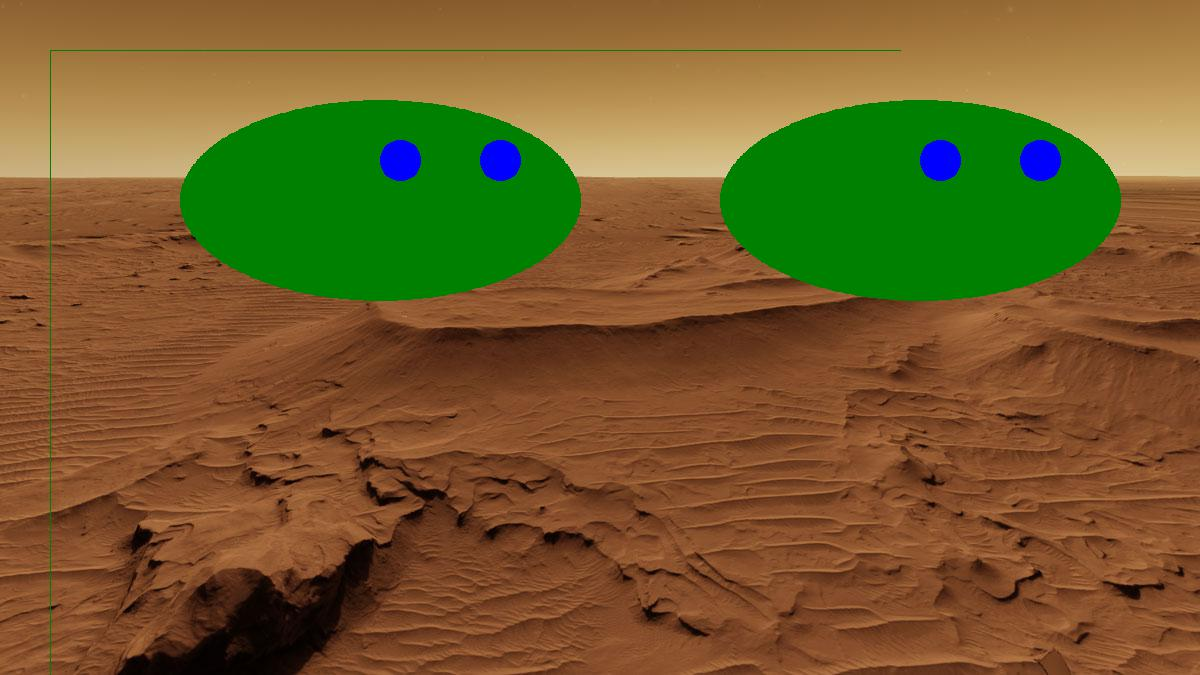
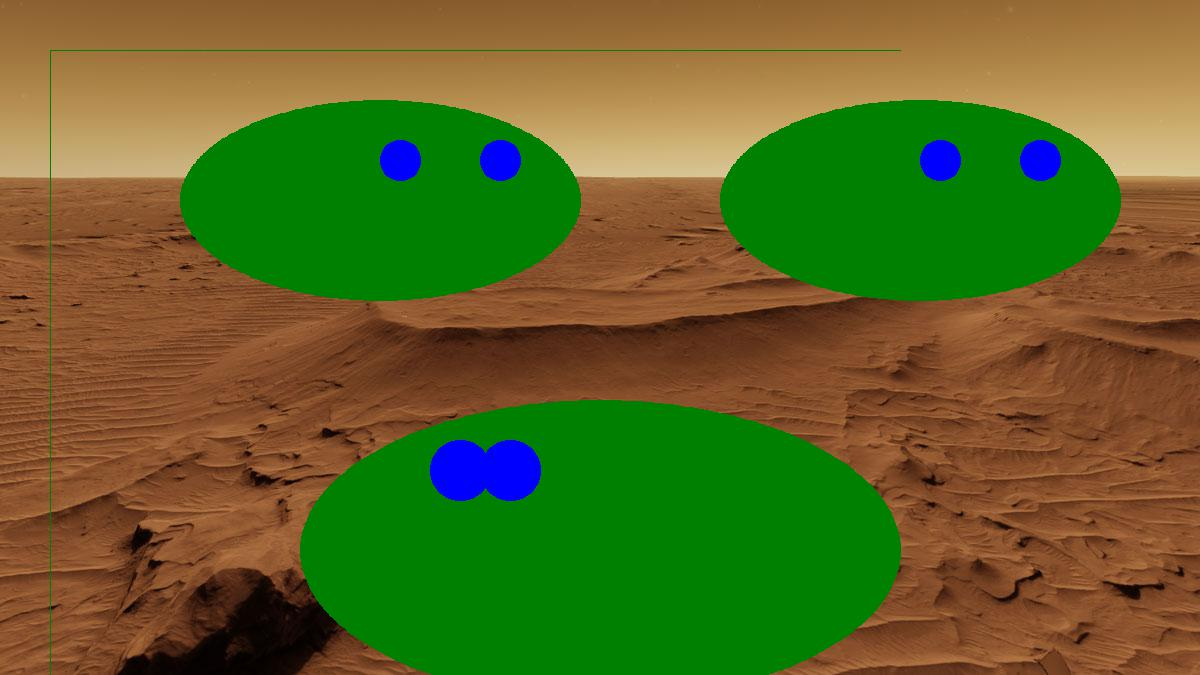
Added super alien and new function

Changed region(s): [[0.2467, 0.5911, 0.7708, 1.0]]

diff --git a/animationprogramfun1.py b/animationprogramfun1.py
@@ -25,6 +25,25 @@ def windowprep(iwidth,iheight):
     
     return window
 
+def initalien(xpos, ypos, siz):
+    
+    aliendat={ 
+    'x': xpos,
+    'y': ypos,
+    'xe': xpos+120,
+    'ye': ypos+40,
+    'siz': siz,
+
+    
+    #shift moves the cirles 
+    'shift': 10,
+    'shifteye': 10    
+    }    
+    
+    return aliendat
+
+
+
 def initdrawdata():    
     ddata={ 
     'step': 5,
@@ -48,12 +67,42 @@ def initdrawdata():
     'ye2b': 140,
     
     'shiftb': -10,
-    'shifteyeb': 10
+    'shifteyeb': 10,
+    
+    'sx1': 100+350,
+    'sy1': 100+50,
+    'sxe1': 220+350,
+    'sye1': 140+50,
+    'sxe2': 320+350,
+    'sye2': 140+50,
+    
     }
     
     #acces daata item using 
     #ddata['step']
     return ddata
+
+def drawalien(draw,x,y,siz, ddat,i,shift):
+    status=0
+    #siz=200
+    ddat['siz']=siz
+    ddat['x']=x+shift
+    ddat['y']=y
+    ddat['xe']= x+shift+120
+    ddat['ye']= y+40
+    ddat['xe2']= x+shift+120+(siz/5)
+    ddat['ye2']= y+40        
+    
+    if i%10==0:
+        ddat['shifteye']=ddat['shifteye']*-1
+            
+    #this draws the first alien
+    ddat['xe']=ddat['xe']+ddat['shifteye']
+    draw.ellipse([ddat['x'], ddat['y'], ddat['x']+2*ddat['siz'], ddat['y']+ddat['siz']],'green')
+    draw.ellipse([ddat['xe'], ddat['ye'], ddat['xe']+(ddat['siz']/5), ddat['ye']+(ddat['siz']/5)],'blue')
+    draw.ellipse([ddat['xe2'], ddat['ye2'], ddat['xe2']+(ddat['siz']/5), ddat['ye2']+(ddat['siz']/5)],'blue')
+    
+    return status    
 
 def drawaliena(draw, ddat,i):
     status=0
@@ -88,9 +137,14 @@ def drawalienb(draw, ddat,i):
 
     return status
 
-
-
-
+def drawsuperalien(draw, ddata, i):
+    ddat['sx1']=ddat['sx1']
+    ddat['sxe1']=ddat['sxe1']
+    ddat['sxe2']=ddat['sxe2']
+    draw.ellipse([ddat['sx1'], ddat['sy1'], ddat['sx1']+400, ddat['sy1']+200],'green')
+    draw.ellipse([ddat['sxe1'], ddat['sye1'], ddat['sxe1']+40, ddat['sye1']+40],'blue')
+    draw.ellipse([ddat['sxe2'], ddat['sye2'], ddat['sxe2']+40, ddat['sye2']+40],'blue')
+    
 #this gets window ready
 #window=tk.Tk()
 #window.title('Animation')
@@ -106,7 +160,11 @@ iheight = 1600
 
 window=windowprep(iwidth, iheight)
 ddat=initdrawdata()
+aliens=initalien(450,100,200)
 
+
+alien1=initalien(100,100,200)
+alien2=initalien(800,100,200)
 #this makes an image
 str1 = "square"
 #draw.text((10, 20), str1, 'black')
@@ -120,7 +178,7 @@ str1 = "square"
 
 
 #start of loop to draw alien at each time step
-for i in range(1,10):
+for i in range(1,28):
     
     #this adds a backround to the animation
     image1 = Image.open("images/mars-landscape-1-1200.jpg")
@@ -146,8 +204,11 @@ for i in range(1,10):
     #draw.ellipse([1050+i*step, 1100+i*step, 1250+i*step, 1200+i*step],'red')
     drawaliena(draw, ddat,i)
     drawalienb(draw, ddat,i)
-
-  
+    x=300
+    y=400
+    siz=300
+    #Draws one-eyed super alien
+    drawalien(draw,x,y,siz, aliens,i,0)
     
     
     #if i%10==0:
@@ -158,6 +219,14 @@ for i in range(1,10):
     del draw
     
     #end of loop to draw alien
+ 
+i=i+1
+#draw super alien    
+#filename = "movie-images/aliens"+str(i)+".jpg"
+#image1.save(filename)  
+#del draw
+    
+    #draw explosion steps
 
 #ffmpeg documentation https://ffmpeg.org/ffmpeg.html#Examples-1
 #ffmpeg command    
